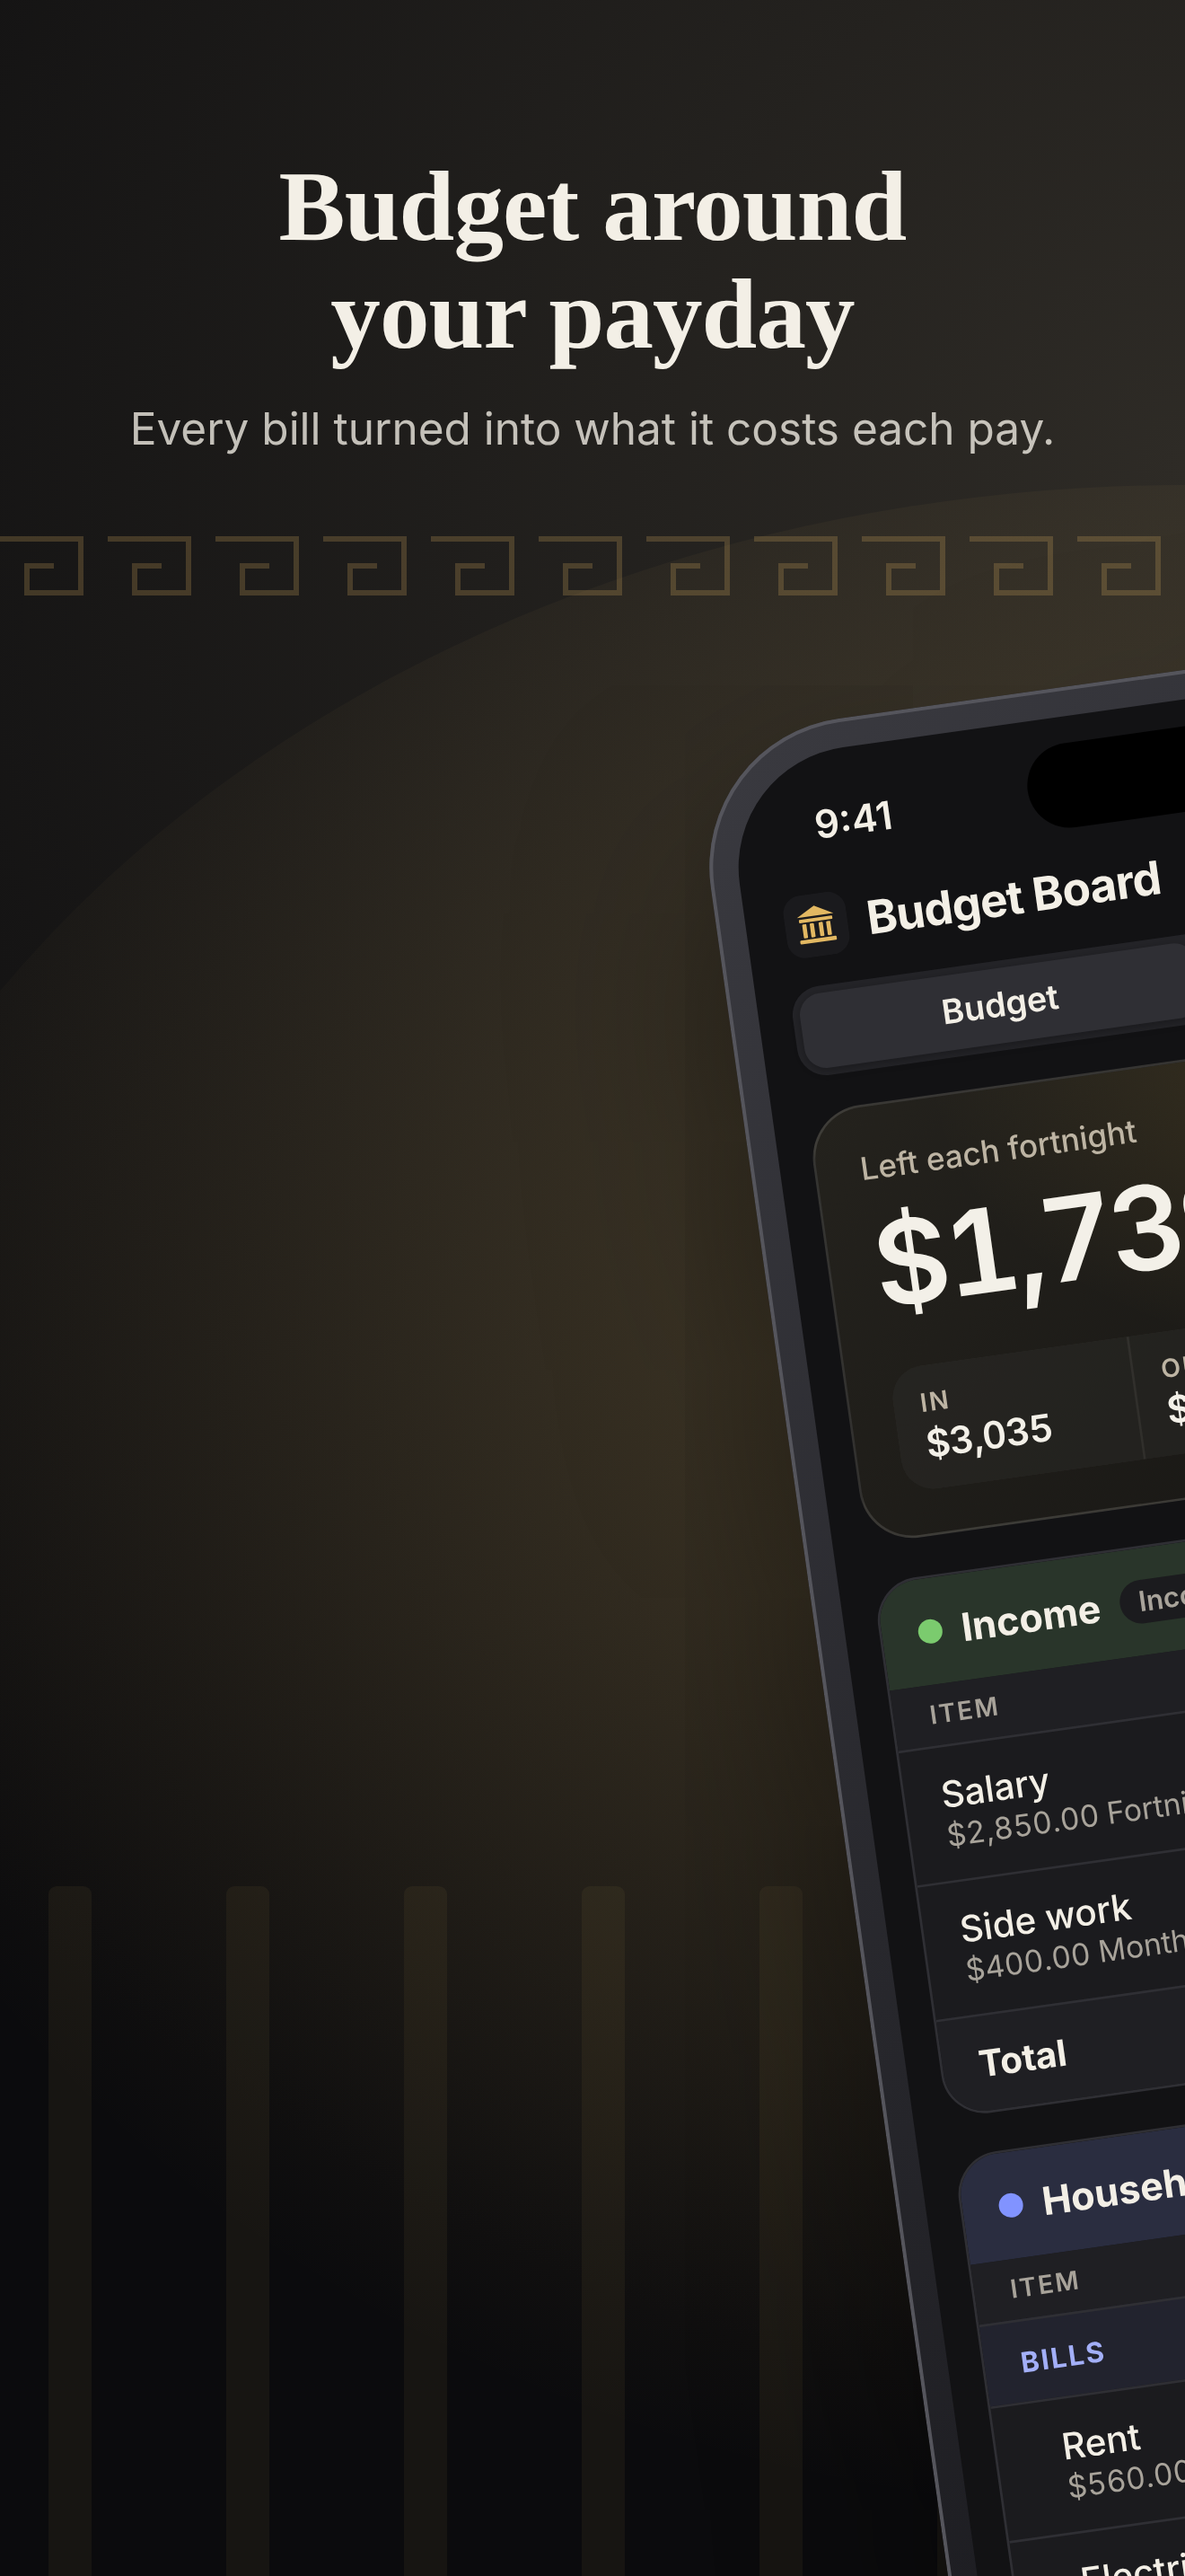
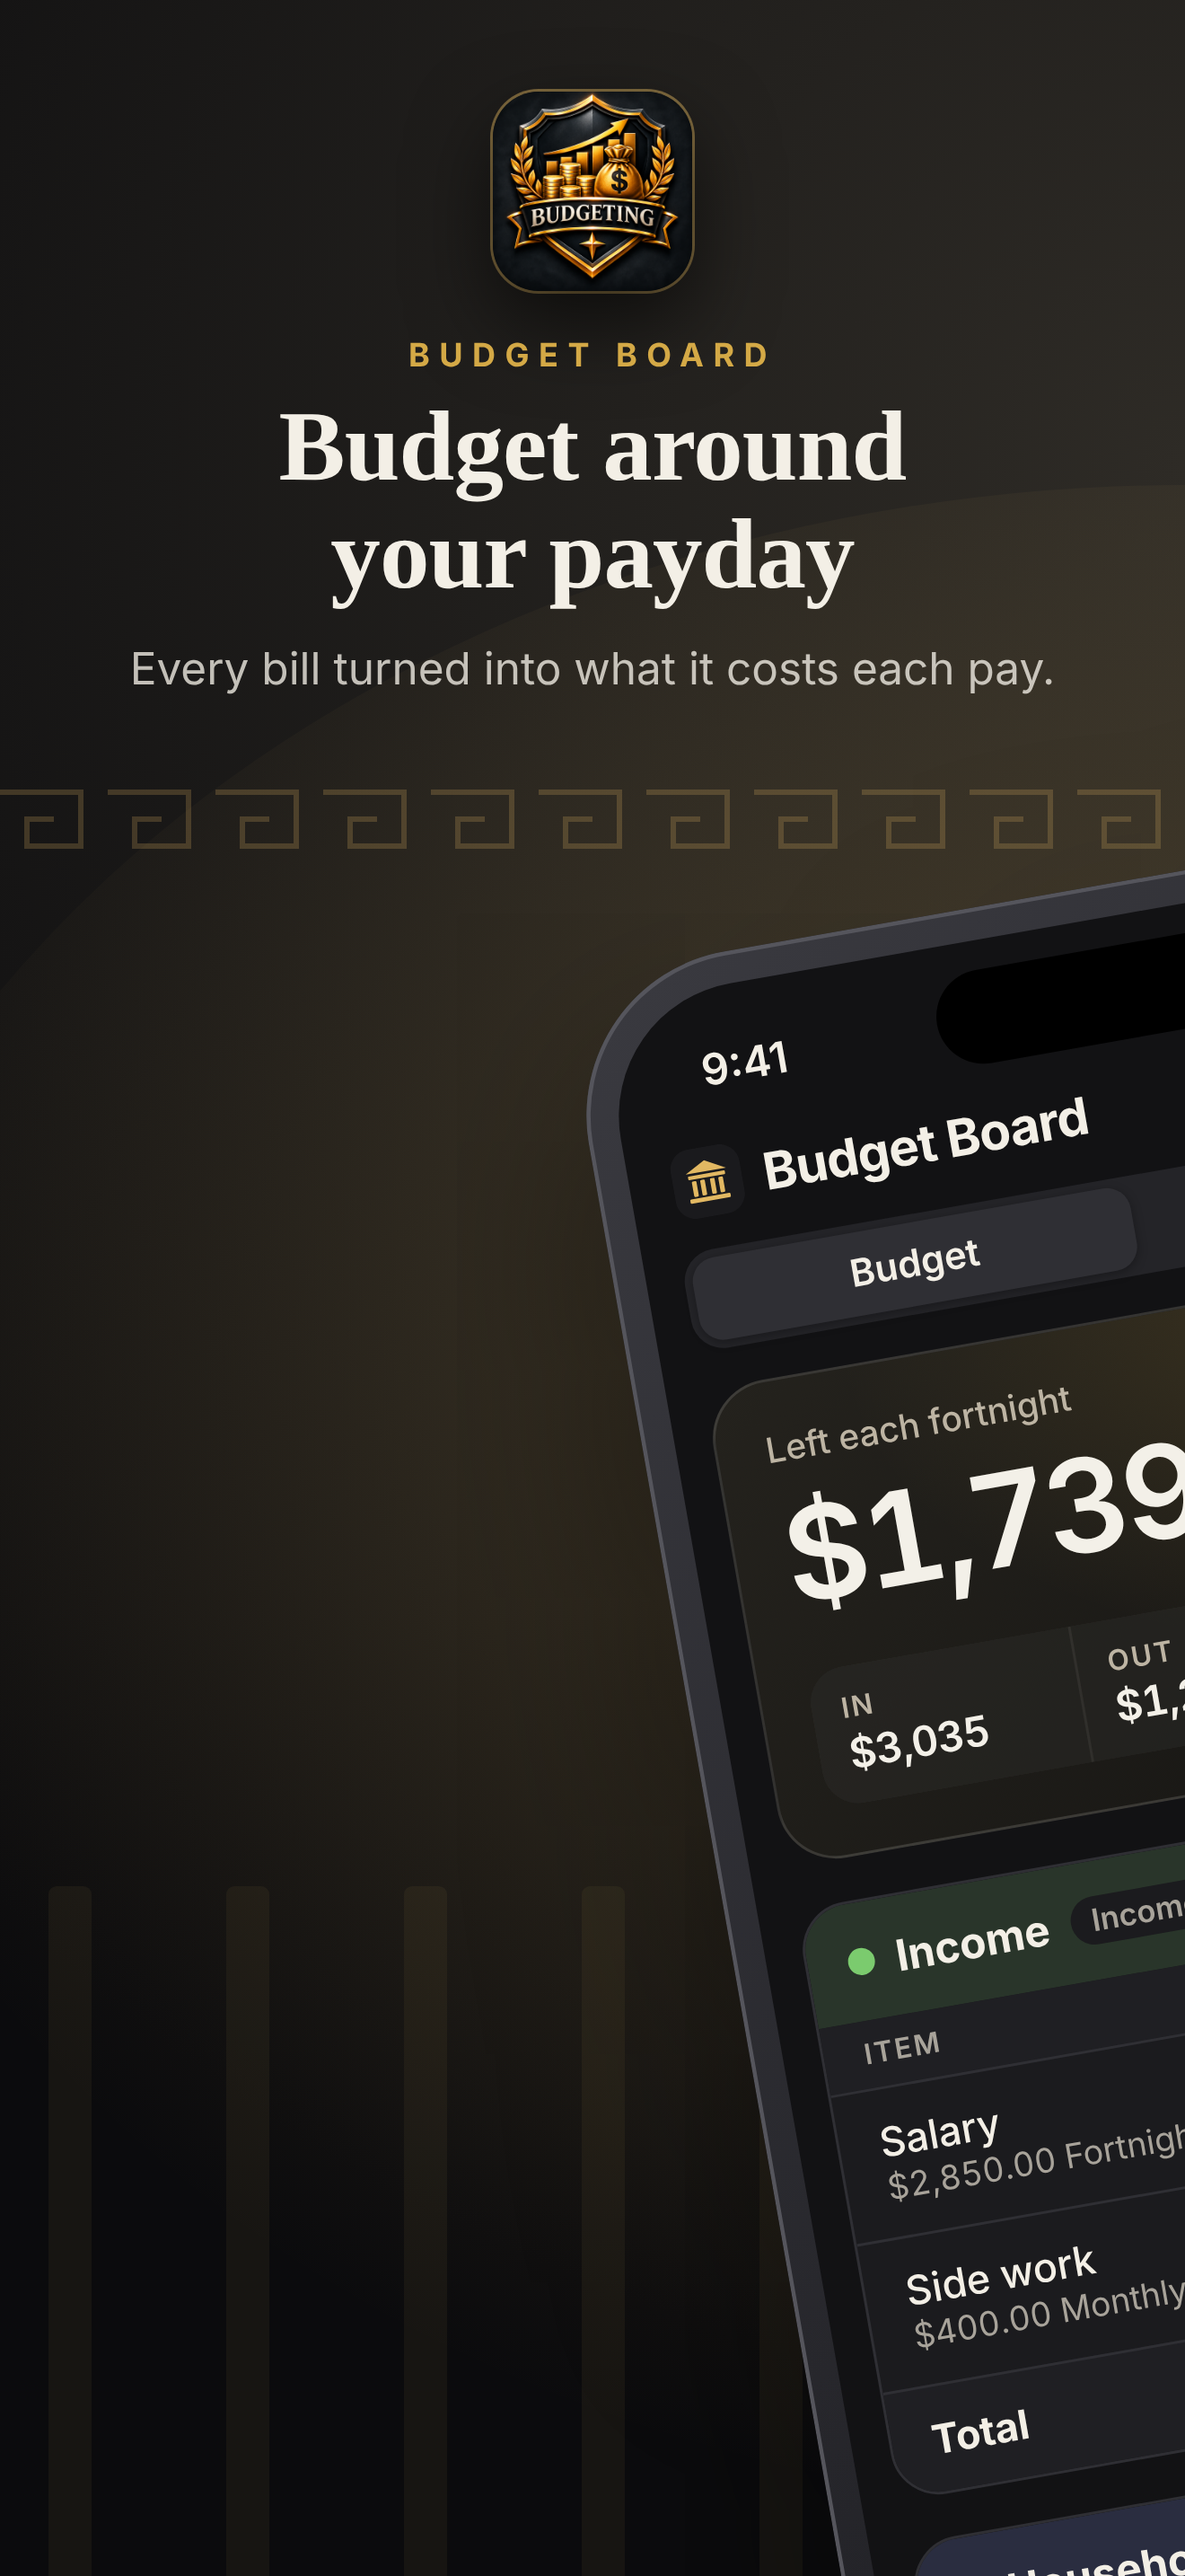
Screenshots: larger tilted phone across the first two, crest and name on the opener
Claude-Session: https://claude.ai/code/session_01SM4u5A5sRMKiUF2jvUrys6

diff --git a/store/shots/scene.html b/store/shots/scene.html
@@ -124,10 +124,10 @@ if(location.hash=='#pano'){
  // 01 + 02 as one wide scene: a tilted phone across the join, floating cards on the right
  const v=SCENES[1],w=SCENES[2],t=theme('dark','brass'),t2=theme('dark','teal');
  document.body.style.width='880px';const st=document.getElementById('stage');st.style.width='880px';
- st.innerHTML=backdrop(v,880)+`<div class="head" style="color:${v.ink};right:auto;width:440px"><h1>${v.h}</h1><p>${v.p}</p></div>
+ st.innerHTML=backdrop({...v,keyY:294},880)+`<div class="head" style="color:${v.ink};right:auto;width:440px;top:34px"><img src="icon.png" style="width:74px;height:74px;border-radius:17px;box-shadow:0 12px 30px rgba(0,0,0,.6),0 0 0 1px rgba(226,184,98,.5)"><div style="color:#D4A946;font-size:12px;font-weight:700;letter-spacing:3.5px;margin:12px 0 8px">BUDGET BOARD</div><h1>${v.h}</h1><p>${v.p}</p></div>
 <div class="head" style="color:${w.ink};left:440px;right:auto;width:440px"><h1>${w.h}</h1><p>${w.p}</p></div>
-<div style="position:absolute;left:575px;top:300px;width:290px;transform:rotate(4deg) scale(.86);transform-origin:top left;z-index:6;border-radius:20px;overflow:hidden;box-shadow:0 30px 60px rgba(0,0,0,.55),0 0 0 1px rgba(226,184,98,.45);background:${t2.bg};padding:0 10px 10px">${section(t2,SECTIONS[3])}</div>
-<div style="position:absolute;left:590px;top:640px;width:290px;transform:rotate(-3deg) scale(.86);transform-origin:top left;z-index:6;border-radius:20px;overflow:hidden;box-shadow:0 30px 60px rgba(0,0,0,.55),0 0 0 1px rgba(226,184,98,.45);background:${t2.bg};padding:0 10px 10px">${section(t2,SECTIONS[2])}</div><div class="phone" style="left:430px;top:250px;transform:translateX(-50%) rotate(-8deg) scale(.9);${PHONE}"><div class="screen" style="background:${t.bg}"><div class="island"></div>${v.body(t)}</div></div>`;
+<div style="position:absolute;left:560px;top:250px;width:290px;transform:rotate(4deg) scale(.82);transform-origin:top left;z-index:6;border-radius:20px;overflow:hidden;box-shadow:0 30px 60px rgba(0,0,0,.55),0 0 0 1px rgba(226,184,98,.45);background:${t2.bg};padding:0 10px 10px">${section(t2,SECTIONS[3])}</div>
+<div style="position:absolute;left:585px;top:560px;width:290px;transform:rotate(-3deg) scale(.82);transform-origin:top left;z-index:6;border-radius:20px;overflow:hidden;box-shadow:0 30px 60px rgba(0,0,0,.55),0 0 0 1px rgba(226,184,98,.45);background:${t2.bg};padding:0 10px 10px">${section(t2,SECTIONS[2])}</div><div class="phone" style="left:400px;top:330px;transform:translateX(-50%) rotate(-10deg) scale(1);${PHONE}"><div class="screen" style="background:${t.bg}"><div class="island"></div>${v.body(t)}</div></div>`;
 }else{
 const n=+location.hash.slice(1)||1,v=SCENES[n],t=theme(v.mode,v.acc);
 document.getElementById('stage').innerHTML=backdrop(v)+`<div class="head" style="color:${v.ink}"><h1>${v.h}</h1><p>${v.p}</p></div>
